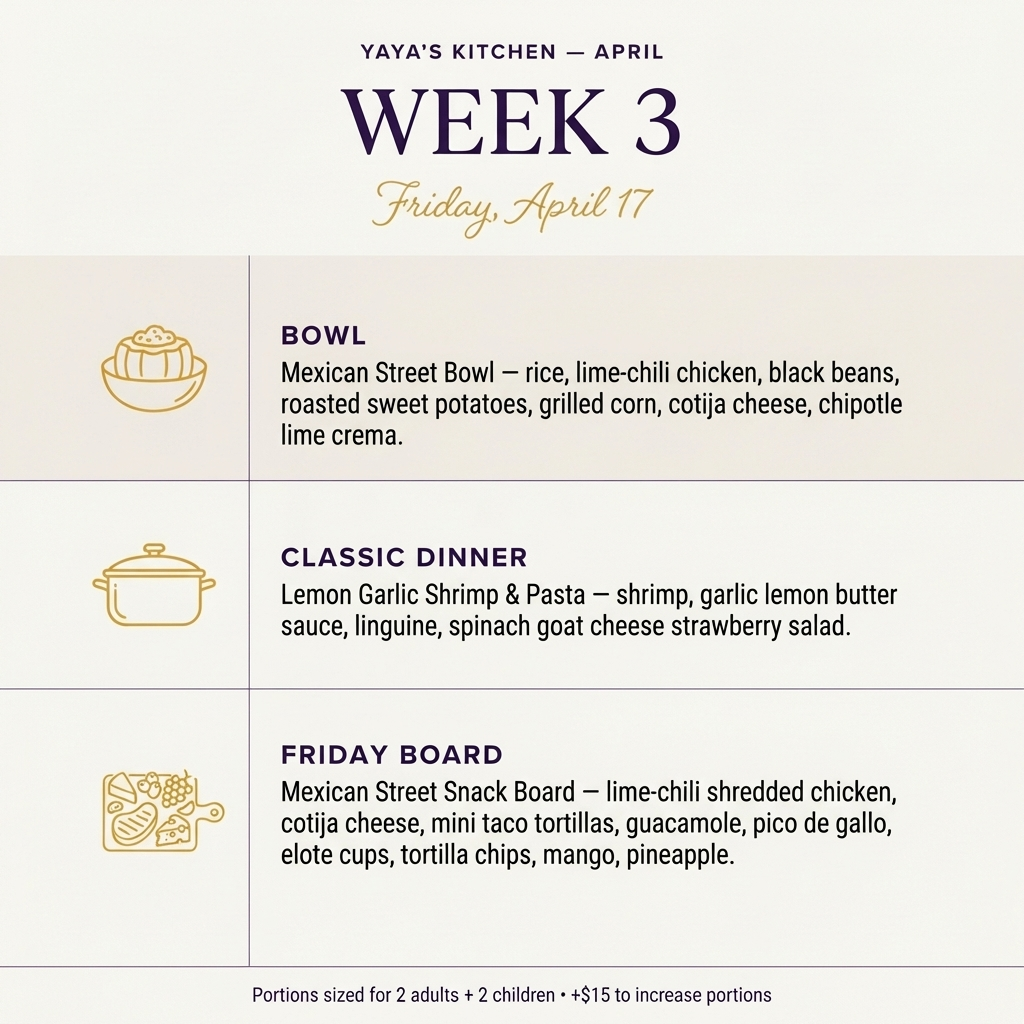
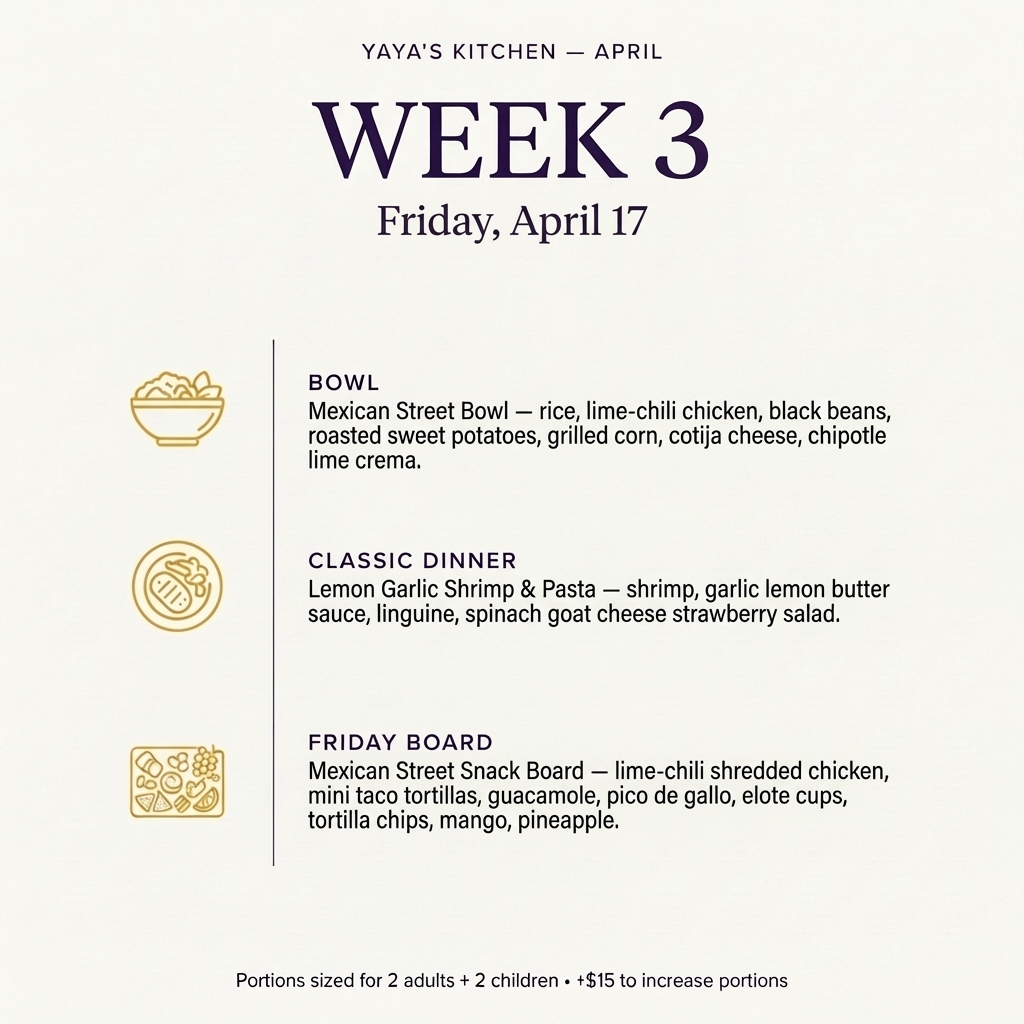
fix: Prominent month tabs, regenerate April weeks 3+4 with correct content/fonts

diff --git a/site/src/components/sections/MonthlyMenu.tsx b/site/src/components/sections/MonthlyMenu.tsx
@@ -85,20 +85,28 @@ export default function MonthlyMenu() {
           </motion.div>
 
           {/* Month Tabs */}
-          <div className="flex gap-2 justify-center mb-8 flex-wrap">
-            {MONTHS.map((m, idx) => (
-              <button
-                key={m.label}
-                onClick={() => { setActiveMonth(idx); setSelectedWeek(null) }}
-                className={`font-headline text-sm tracking-widest uppercase px-6 py-2 border-2 transition-all duration-200 focus-visible:outline-none focus-visible:ring-2 focus-visible:ring-[--color-gold] focus-visible:ring-offset-2 focus-visible:ring-offset-[--color-purple] ${
-                  activeMonth === idx
-                    ? 'bg-[--color-gold] border-[--color-gold] text-[--color-charcoal]'
-                    : 'bg-transparent border-white/30 text-white/60 hover:border-[--color-gold] hover:text-[--color-gold]'
-                }`}
-              >
-                {m.label}
-              </button>
-            ))}
+          <div className="mb-8">
+            <p className="text-center text-white/50 text-xs tracking-widest uppercase mb-3">
+              Choose a month
+            </p>
+            <div className="flex gap-3 justify-center flex-wrap">
+              {MONTHS.map((m, idx) => (
+                <button
+                  key={m.label}
+                  onClick={() => { setActiveMonth(idx); setSelectedWeek(null) }}
+                  className={`font-headline text-base tracking-widest uppercase px-8 py-3 border-2 transition-all duration-200 focus-visible:outline-none focus-visible:ring-2 focus-visible:ring-[--color-gold] focus-visible:ring-offset-2 focus-visible:ring-offset-[--color-purple] ${
+                    activeMonth === idx
+                      ? 'bg-[--color-gold] border-[--color-gold] text-[--color-charcoal] shadow-lg scale-105'
+                      : 'bg-white/10 border-white text-white hover:bg-[--color-gold]/20 hover:border-[--color-gold] hover:text-[--color-gold]'
+                  }`}
+                >
+                  {m.label}
+                  {activeMonth === idx && (
+                    <span className="ml-2 text-xs">✓</span>
+                  )}
+                </button>
+              ))}
+            </div>
           </div>
 
           {/* Week Grid */}

diff --git a/docs/MENU-UPDATE-SOP.md b/docs/MENU-UPDATE-SOP.md
@@ -1,0 +1,63 @@
+# YaYa's Kitchen — Monthly Menu Update SOP
+
+## When YaYa sends a new month's menu
+
+### Step 1 — Collect menu content
+YaYa provides: Bowl, Classic Dinner, and Board for each of 4 weeks.
+
+### Step 2 — Determine Friday delivery dates
+Find the 4 Fridays for the new month (e.g., May 1, 8, 15, 22).
+
+### Step 3 — Generate 4 new menu images
+Use the previous month's images as style reference:
+
+```bash
+GEMINI_API_KEY=$GEMINI_API_KEY uv run ~/.npm-global/lib/node_modules/openclaw/skills/nano-banana-pro/scripts/generate_image.py \
+  --prompt "Recreate this menu card in the exact same style. Change content to:
+  Header: 'YAYA'S KITCHEN — [MONTH]'. Large title: 'WEEK [N]'. Subtitle: 'Friday, [DATE]'.
+  BOWL: [name] — [items].
+  CLASSIC DINNER: [name] — [items].
+  FRIDAY BOARD: [name] — [items].
+  Keep cream background, purple/navy typography, golden icons, clean elegant layout.
+  Footer: 'Portions sized for 2 adults + 2 children • +$15 to increase portions'" \
+  -i site/public/images/menu/[prev-month]-week-[N].jpg \
+  --filename "[month]-week-[N].jpg" \
+  --resolution 1K
+```
+
+Repeat for all 4 weeks. Copy generated images to:
+`site/public/images/menu/[month]-week-1.jpg` through `...-week-4.jpg`
+
+### Step 4 — Update MonthlyMenu.tsx
+Open: `site/src/components/sections/MonthlyMenu.tsx`
+
+In the `MONTHS` array:
+1. **Remove** the oldest month entry
+2. **Add** the new month at the end (it auto-shows as the active tab)
+
+Example entry:
+```ts
+{
+  label: 'May',
+  weeks: [
+    { id: 1, label: 'Week 1', date: 'Friday, May 1',  image: '/images/menu/may-week-1.jpg', alt: "YaYa's Kitchen May Week 1 Menu" },
+    { id: 2, label: 'Week 2', date: 'Friday, May 8',  image: '/images/menu/may-week-2.jpg', alt: "YaYa's Kitchen May Week 2 Menu" },
+    { id: 3, label: 'Week 3', date: 'Friday, May 15', image: '/images/menu/may-week-3.jpg', alt: "YaYa's Kitchen May Week 3 Menu" },
+    { id: 4, label: 'Week 4', date: 'Friday, May 22', image: '/images/menu/may-week-4.jpg', alt: "YaYa's Kitchen May Week 4 Menu" },
+  ],
+},
+```
+
+### Step 5 — Build, commit, deploy
+```bash
+cd site && pnpm build
+cd .. && git add -A && git commit -m "feat: Add [Month] menu"
+git push origin main
+vercel --prod --yes
+```
+
+### Step 6 — Verify
+Check yayasbaskets.com — new month tab should appear and be the active default.
+
+---
+*Created: 2026-03-13 | Update each month takes ~10 minutes end-to-end*
